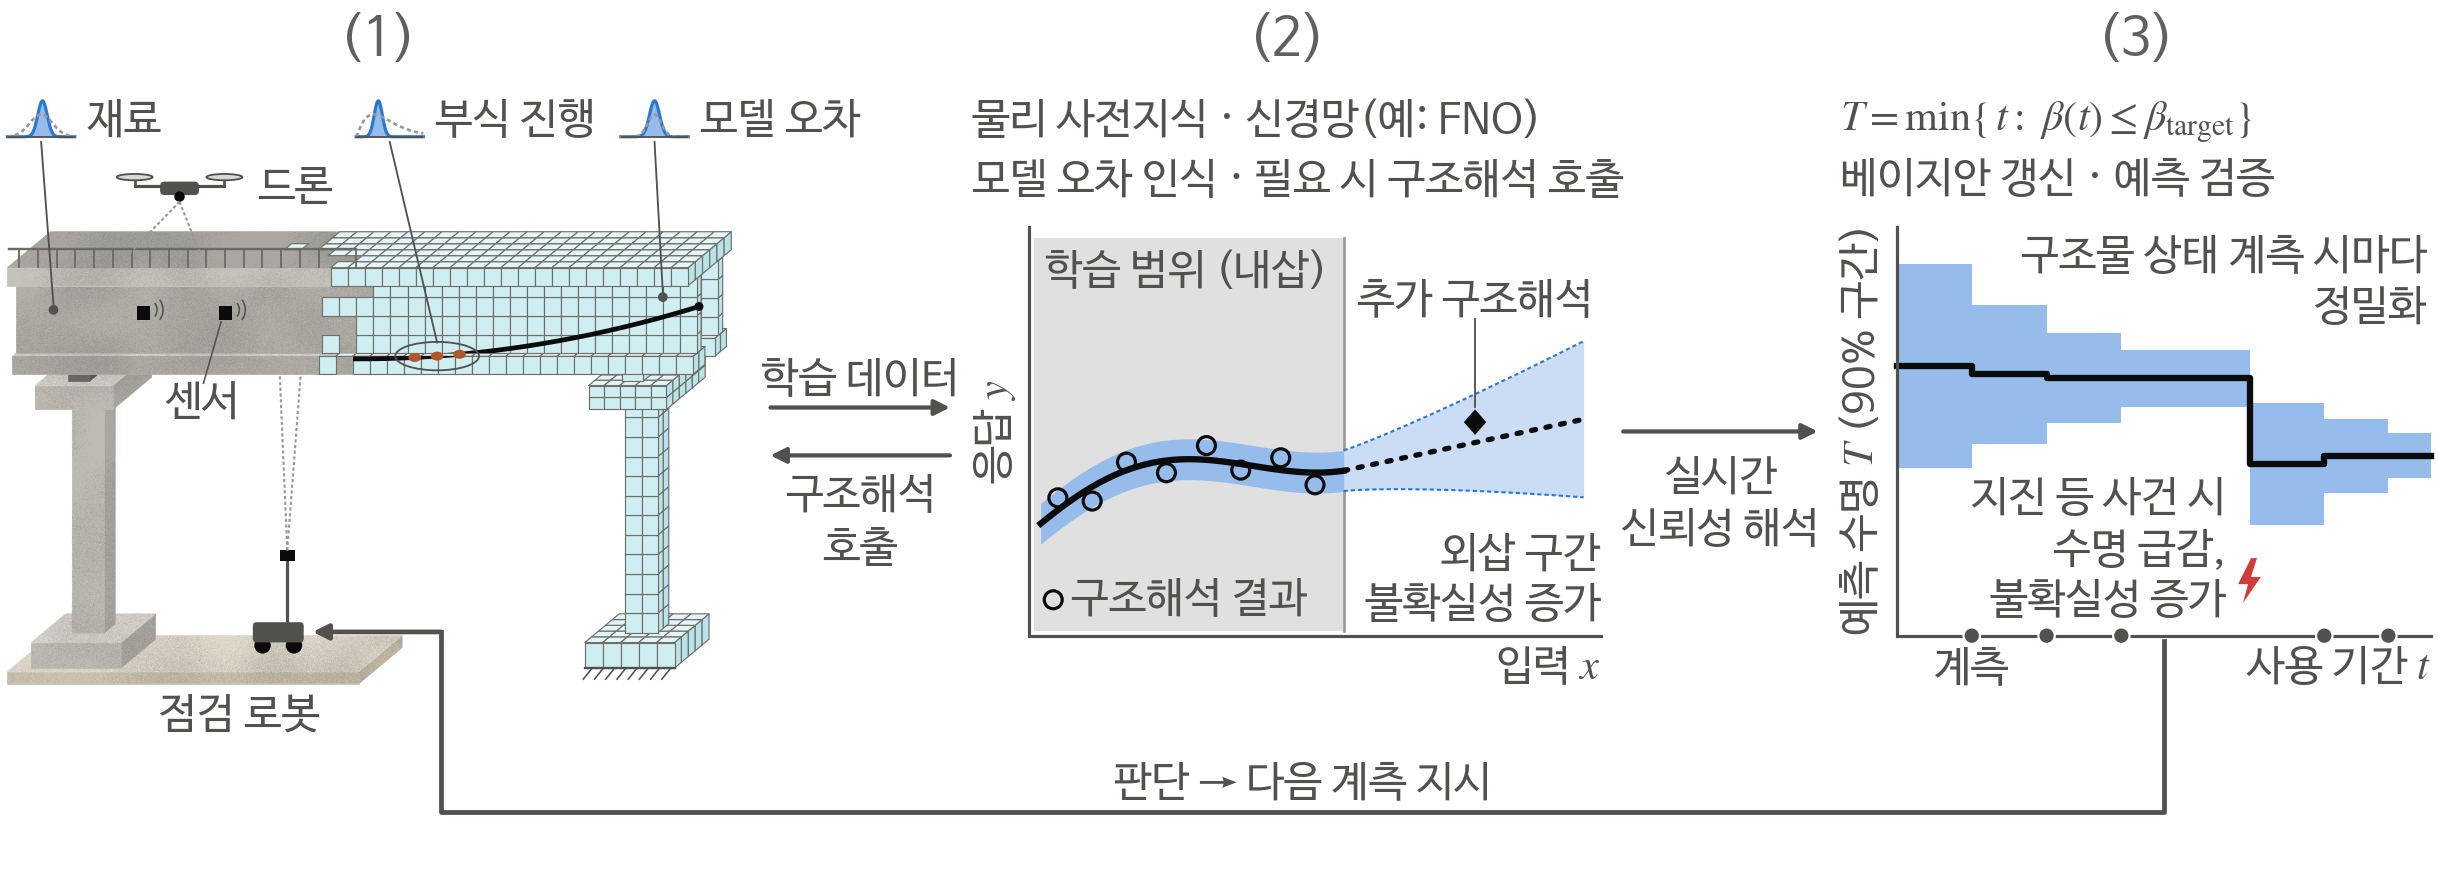
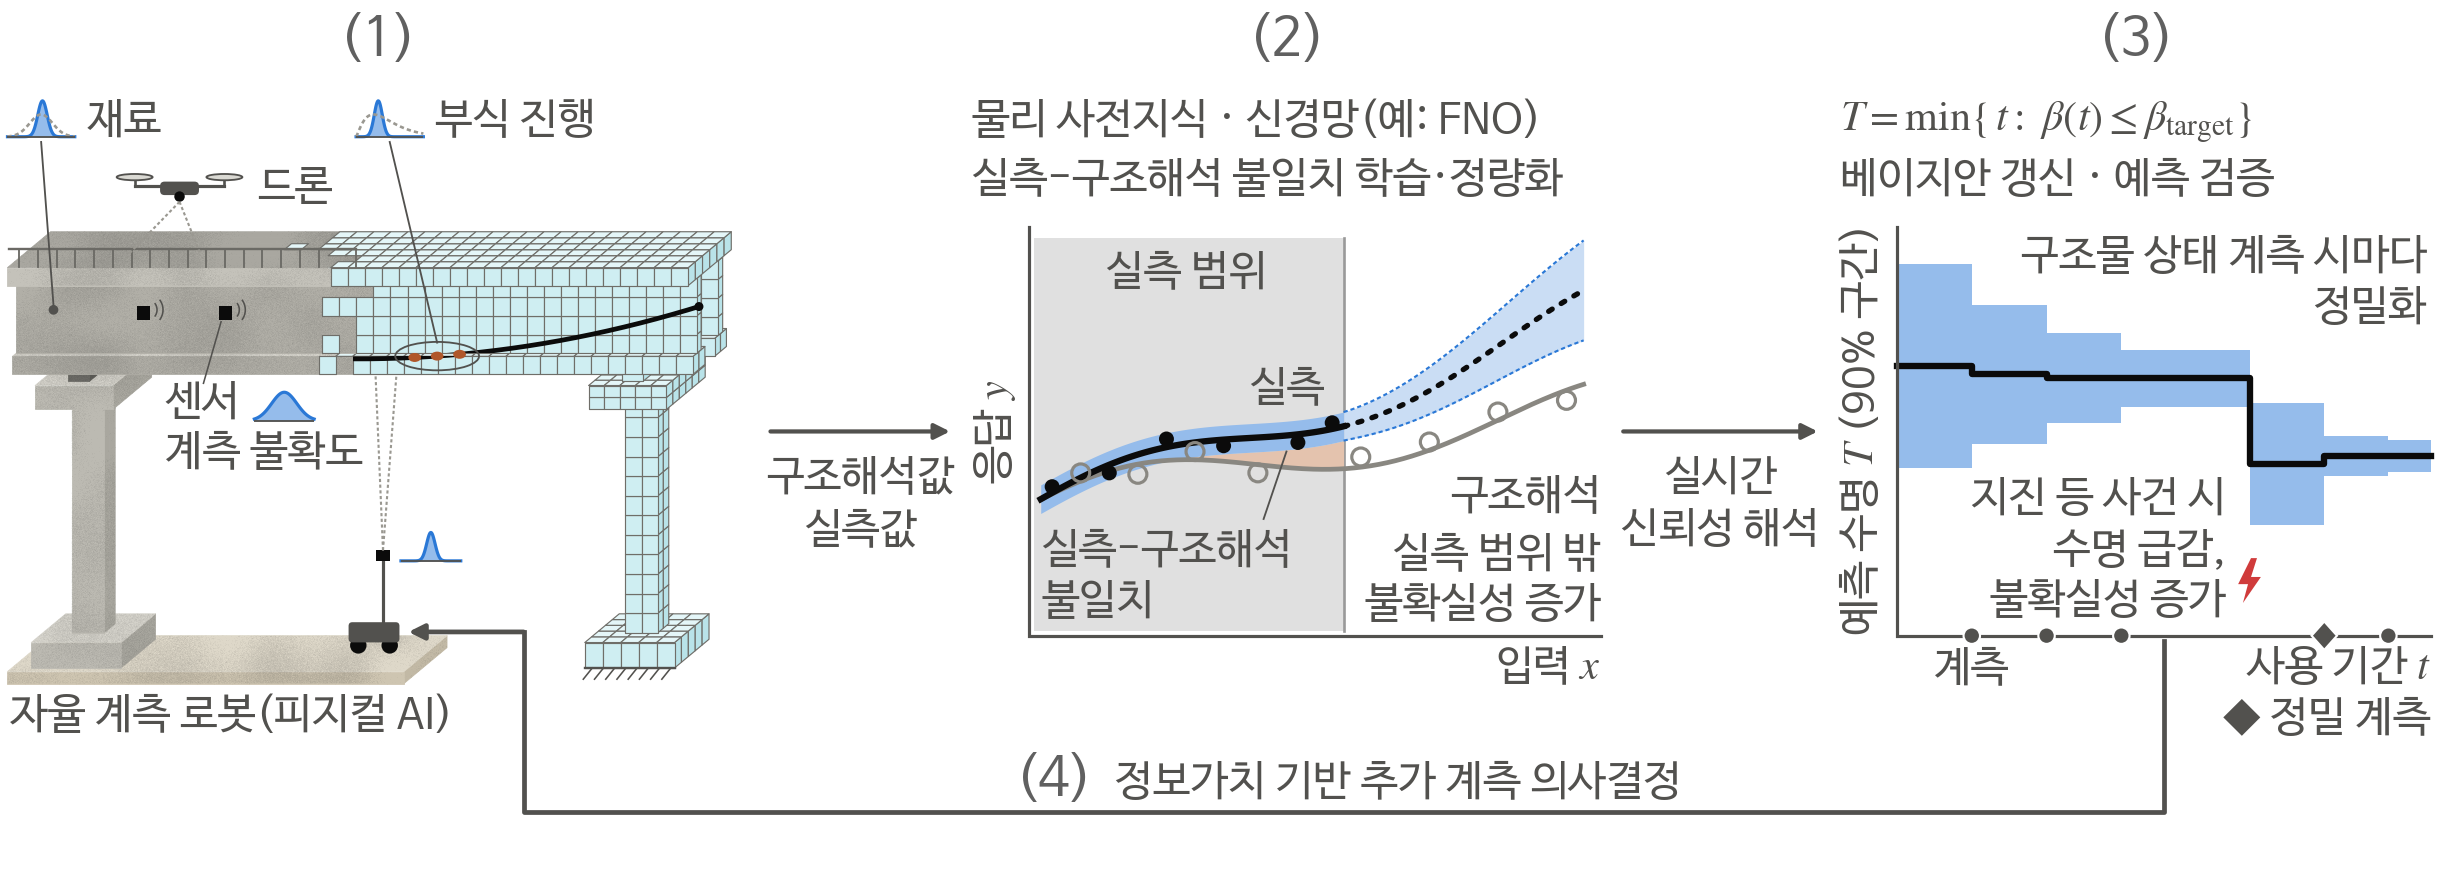
Rebuild the research vision around four axes
The research plan now has four items rather than three, and the figure
has been redrawn to match: the digital twin carries the measurement
uncertainty of each instrument, the surrogate learns the discrepancy
between measurement and structural analysis rather than only reproducing
the analysis, and the feedback path is its own item, deciding the next
measurement by value of information.

- Replace the figure with the current one, relabelling the first panel so
  the application form's wording does not appear on the site.
- Open the body with the translator the axes implement: measured state to
  performance, performance to remaining life, with an uncertainty at each
  of the three places it can be wrong. State the goal as narrowing the
  distribution of remaining life rather than predicting a lifetime.
- Write the four axes to the plan's titles, each with its question,
  approach and output.
- Say how verification works when the quantity of interest is a failure
  probability too rare to observe: verify each link of the chain with
  evidence suited to it and name where extrapolation begins.
- Retag the projects, which now span four axes.

Claude-Session: https://claude.ai/code/session_01RFEEQzEsAcWqkqbtmMg7qz

diff --git a/_pages/research-vision.md b/_pages/research-vision.md
@@ -12,39 +12,47 @@ nav_order: 2
   <p class="vision-en">A probabilistic life prediction that grows more precise with every measurement, widens its uncertainty when an unforeseen event occurs, and checks each prediction against the measurements that follow.</p>
 </div>
 
-<img src="/assets/img/research/research-vision.png" alt="계측으로 갱신되는 구조물 수명 예측기: (1) 확률적 구조 모델, (2) 모델 오차를 아는 대리모델, (3) 신뢰성 기반 수명 예측과 갱신" style="display: block; margin: 1.5rem auto 2rem auto; max-width: 100%; height: auto;">
+<img src="/assets/img/research/research-vision.png" alt="계측으로 갱신되는 구조물 수명 예측기: (1) 불확실성을 고려한 디지털 트윈, (2) 실측-구조해석 불일치를 학습하는 확률적 대리모델, (3) 신뢰성 기반 수명 예측·갱신·검증, (4) 정보가치 기반 추가 계측 의사결정" style="display: block; margin: 1.5rem auto 2rem auto; max-width: 100%; height: auto;">
 
-#### Why a Life Forecast, and Why Now
+#### A Translator from Measurements to Remaining Life
 
-The remaining life of a structure is not a number; it is a distribution. A single figure — "30 years left" — hides exactly what an owner needs in order to act: how wide the answer is, what would narrow it, and what would change it. Decisions about repair, replacement and continued use are decisions taken under uncertainty, and they are better taken from the distribution than from its mean.
+Sensors are becoming cheap and continuous, and the state of a structure now arrives as thousands of values a day. What has not kept pace is the machinery that turns those values into a judgement: whether the structure may continue in service, and for how long. That judgement is still made the way it was made before the data existed — periodically, from a single representative number, by inspection.
 
-Structures are measured more thoroughly every year — fixed sensors, drones, inspection robots, nondestructive testing — yet the estimated remaining life barely moves in response. The bottleneck is not the volume of data but the model that receives it. A model whose deterioration, response and own error are not represented probabilistically has nowhere to put a new measurement, so the measurement changes nothing. Weather forecasting solved a structurally similar problem by combining physics, continuous data assimilation and — decisively — the routine scoring of its own forecasts against what subsequently occurred. Structural engineering now has the mechanics, the measurements and the machine learning; what it does not yet have is the loop that closes them.
+What is missing is a translator. It takes measured state — crack widths, corrosion rates, displacements, accelerations — and converts it into performance, meaning capacity and probability of failure; then it converts the trajectory of that performance into remaining life. The translator has three places where it can be wrong, and each carries its own uncertainty: the measurement that enters it, the model that transforms it, and the judgement that leaves it. The four axes below each take responsibility for one of those, and the fourth closes the loop by deciding what to measure next.
 
-My work is to build that loop, and the three axes below are its three pieces.
+The honest statement of the goal is not that the remaining life of a structure can be predicted. It is that the distribution of remaining life can be narrowed by measurement, and that the narrowing can be checked.
 
 #### Axis 1 — Uncertainty-Aware Digital Twins of Structures
 
 불확실성을 고려한 디지털 트윈 구축 기술 개발
 
-- **Question** — How much capacity has a corroded prestressed girder actually lost, and how uncertain is that answer?
-- **Approach** — A digital twin whose deterioration and response models carry material properties, deterioration rates and model-form error as random variables rather than fixed assumptions, so that a measurement has somewhere to go.
-- **Output** — Posterior distributions of structural state; partial safety factors calibrated for aged structures and for new low-carbon materials entering design practice.
+- **Question** — A sensor returns a distribution, not a number. If capacity is computed anew thousands of times a day, which value is the structure's capacity — the lowest, the mean, the most recent?
+- **Approach** — A digital twin in which material properties, deterioration rates, model-form error and the measurement uncertainty of each instrument are all random variables, so that a reading has somewhere to go. Conformity is then assessed the way metrology assesses it: not by comparing a representative value against a criterion, but by tracking the probability of falling short of it over time.
+- **Output** — Structural state and capacity as posterior distributions, each reported together with the size of the uncertainty behind it.
 
-#### Axis 2 — Probabilistic AI Surrogates for Structural Analysis, Trained by Active Learning
+#### Axis 2 — Probabilistic AI Surrogates Built on the Measurement–Analysis Discrepancy
 
-능동학습 기반 확률적 인공지능 구조해석 대리모델 구축 기술 개발
+실측−구조해석 불일치 정보 기반 확률적 인공지능 구조해석 대리모델 구축 기술 개발
 
-- **Question** — When may a neural surrogate replace a structural analysis, and when must it admit that it cannot and call one?
-- **Approach** — Physics priors combined with operator learning (e.g., FNO); predictive intervals that widen outside the training range instead of extrapolating confidently; active learning that spends additional structural analyses where the model is least certain.
-- **Output** — Fast response prediction with honest intervals, and virtual sensing at locations no instrument reaches.
+- **Question** — When a measurement and a structural analysis disagree, which one is wrong, and by how much? Model updating adjusts parameters inside a model assumed to be structurally correct; it cannot represent a mechanism the model does not contain.
+- **Approach** — A surrogate that learns the discrepancy itself rather than only reproducing the analysis: physics priors combined with operator learning, predictive intervals that widen beyond the measured range instead of extrapolating confidently, and a network structure whose learned kernels can be read as transfer functions, so that the discrepancy is a physical quantity rather than a black-box correction.
+- **Output** — Fast response prediction with honest intervals, virtual sensing where no instrument reaches, and a model bias that is quantified and propagated into the probability of failure instead of being absorbed silently.
 
 #### Axis 3 — Reliability-Based Prediction, Updating and Verification of Structural Life
 
 신뢰성 기반의 구조물 수명 예측·갱신·검증 기술 개발
 
-- **Question** — Given everything measured so far, how much longer can this structure be used safely, and what should be measured next?
-- **Approach** — Safety lifetime defined as $$T = \min\{\,t : \beta(t) \le \beta_\mathrm{target}\,\}$$, updated by Bayesian inference as data arrives; value of information to decide which measurement is worth taking; verification of the forecasts against what is subsequently observed.
-- **Output** — A life distribution that narrows with each measurement and widens honestly after an earthquake or another surprise; inspection priorities; measurement plans.
+- **Question** — Given everything measured so far, when is a decision forced? The useful question is not when a structure will collapse but when its reliability falls below target, so that inspection or repair can no longer be deferred.
+- **Approach** — Safety lifetime defined as $$T = \min\{\,t : \beta(t) \le \beta_\mathrm{target}\,\}$$, with deterioration treated as a stochastic process whose parameters are updated by Bayesian inference as data arrives, and with every forecast later scored against what was actually observed.
+- **Output** — A life distribution that narrows with each measurement and widens honestly after an earthquake or another surprise; and, from it, inspection intervals set by the measurements rather than by a fixed calendar.
+
+#### Axis 4 — Value-of-Information Decisions for Autonomous Measurement
+
+피지컬 AI 자율 계측을 위한 정보가치 기반 의사결정 기술 개발
+
+- **Question** — When the remaining uncertainty is too large to decide, what should be measured next, and where? A robot is sent out for two reasons: because the judgement is too uncertain, or because an alarm has been raised and must be confirmed.
+- **Approach** — Value of information: how much a candidate measurement would reduce the uncertainty that actually changes the decision, weighed against what it costs. This requires separating the uncertainty a measurement can reduce from the model uncertainty it cannot — which is what Axis 2 supplies. Continuous low-cost sensing screens; a robot's high-precision nondestructive testing confirms.
+- **Output** — An instruction naming what to measure and where, an updated judgement, and a diagnosis of each false alarm that feeds back into the model so the next one is less likely.
 
 #### From Probability to Decision
 
@@ -52,4 +60,6 @@ A probabilistic answer is only useful if it ends in a decision. Every result is 
 
 #### Verification
 
-Sharpness is easy to claim and easy to fake; it only counts once calibration has been demonstrated. Across all three axes, the fraction of observations that actually fall inside the predicted intervals is treated as a standard reported quantity, not an afterthought. Each prediction is settled by the observations that arrive after it, so the record of how well the forecasts have held accumulates at the pace of the measurements rather than being asserted once.
+A probability of failure of 10⁻⁴ to 10⁻⁶ cannot be checked against observed failures; the events are too rare. So the claim is not that the failure probability is correct. It is that each link in the chain leading to it is verified by evidence appropriate to that link, and that the point at which the chain begins to extrapolate is stated rather than hidden.
+
+Sensor uncertainty is checked against reference instruments. Predicted capacity distributions are checked against specimens tested to failure. A learned discrepancy is checked on structures whose damage is known because it was introduced deliberately, and then again outside the range it was trained on. The computation itself is checked against Monte Carlo. What is reported is coverage of the predicted intervals, continuous ranked probability score, and the flatness of the probability integral transform — and verification, meaning the mathematics was solved correctly, is kept distinct from validation, meaning the result agrees with the world.

diff --git a/_pages/research-projects.md b/_pages/research-projects.md
@@ -11,7 +11,8 @@ nav_order: 3
 
 ##### Project 4 — Uncertainty-Aware Embedded AI for Autonomous Intelligent NDT Robots
 
-<a class="axis-tag" href="/research-interest/">Axis 2</a> <a class="axis-tag" href="/research-interest/">Axis 3</a>
+<a class="axis-tag" href="/research-interest/">Axis 2</a> <a class="axis-tag" href="/research-interest/">Axis 4</a>
+
 
 자율지능형 비파괴 검사 로봇 탑재용 불확실성 인식 임베디드 인공지능 개발
 
@@ -29,6 +30,7 @@ nav_order: 3
 
 <a class="axis-tag" href="/research-interest/">Axis 1</a> <a class="axis-tag" href="/research-interest/">Axis 3</a>
 
+
 디지털 트윈 기반 시설물 성능 추정 기술 개발
 
 - **Funding:** KRISS — 기관고유사업
@@ -43,6 +45,7 @@ nav_order: 3
 
 <a class="axis-tag" href="/research-interest/">Axis 2</a>
 
+
 딥러닝 및 디지털트윈 기반 인프라구조물의 가상 센서 시스템 구축 기법 개발
 
 - **Funding:** KRISS — 뿌리내림사업
@@ -55,7 +58,8 @@ nav_order: 3
 
 ##### Project 1 — Lifespan Prediction of Infrastructure via Deep Reinforcement Learning-Based Digital Twin Updates
 
-<a class="axis-tag" href="/research-interest/">Axis 3</a>
+<a class="axis-tag" href="/research-interest/">Axis 3</a> <a class="axis-tag" href="/research-interest/">Axis 4</a>
+
 
 디지털 트윈의 심층강화학습 기반 자동 업데이트를 통한 인프라 구조물의 수명 예측 기법 개발
 
